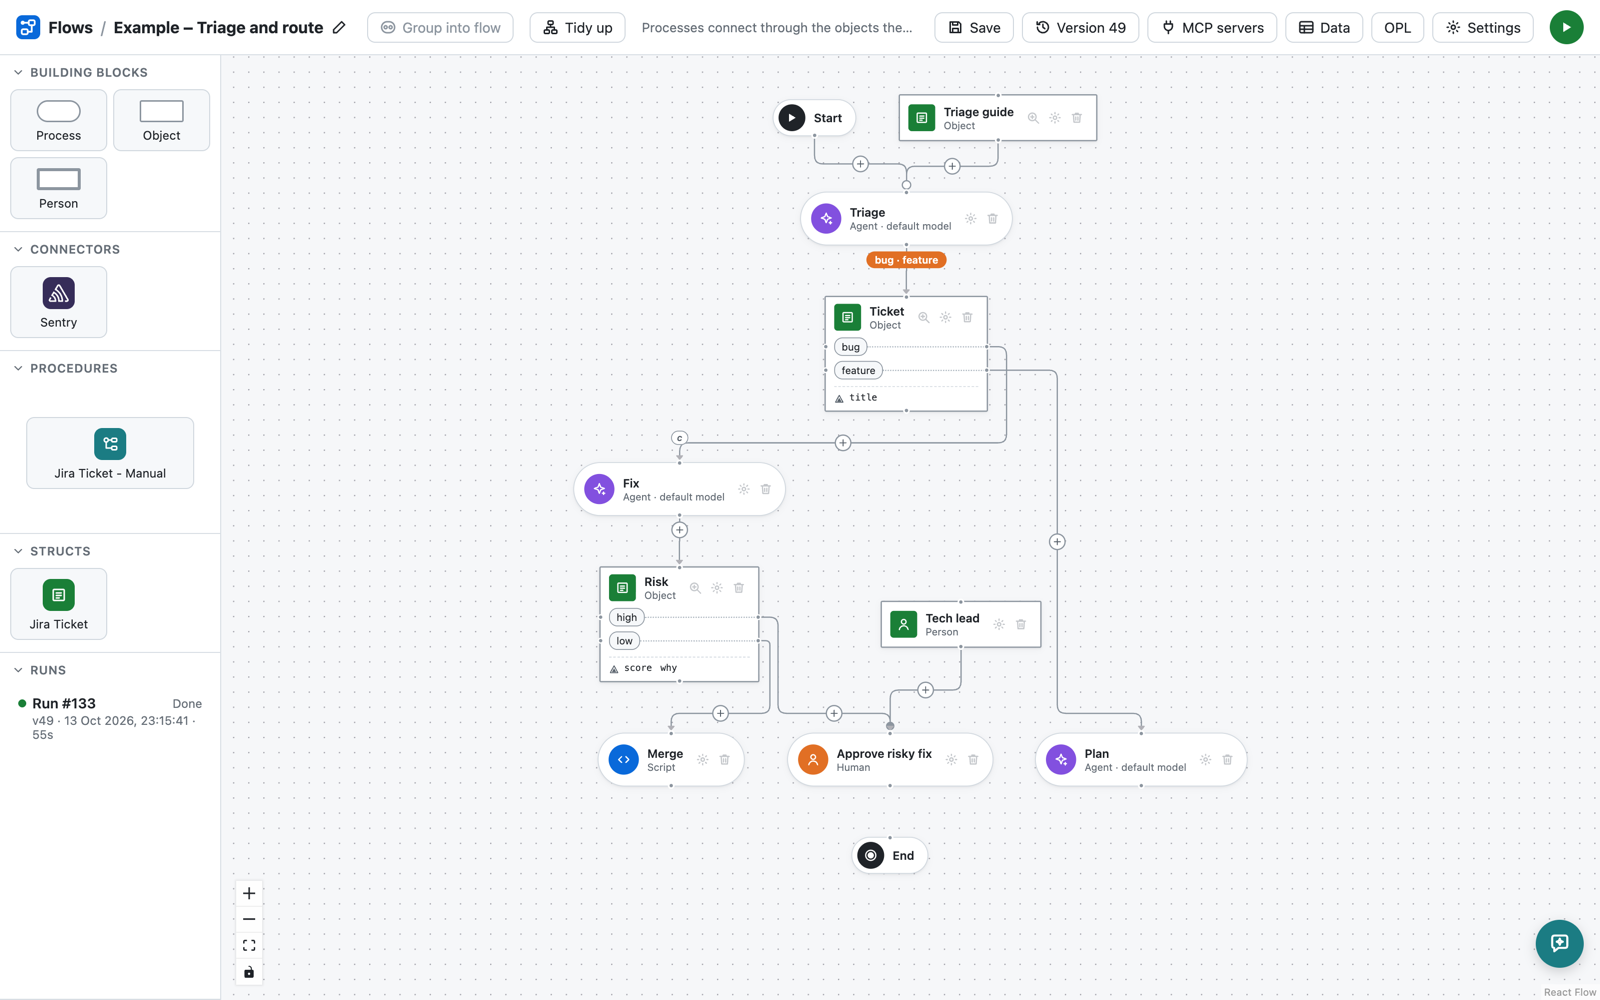
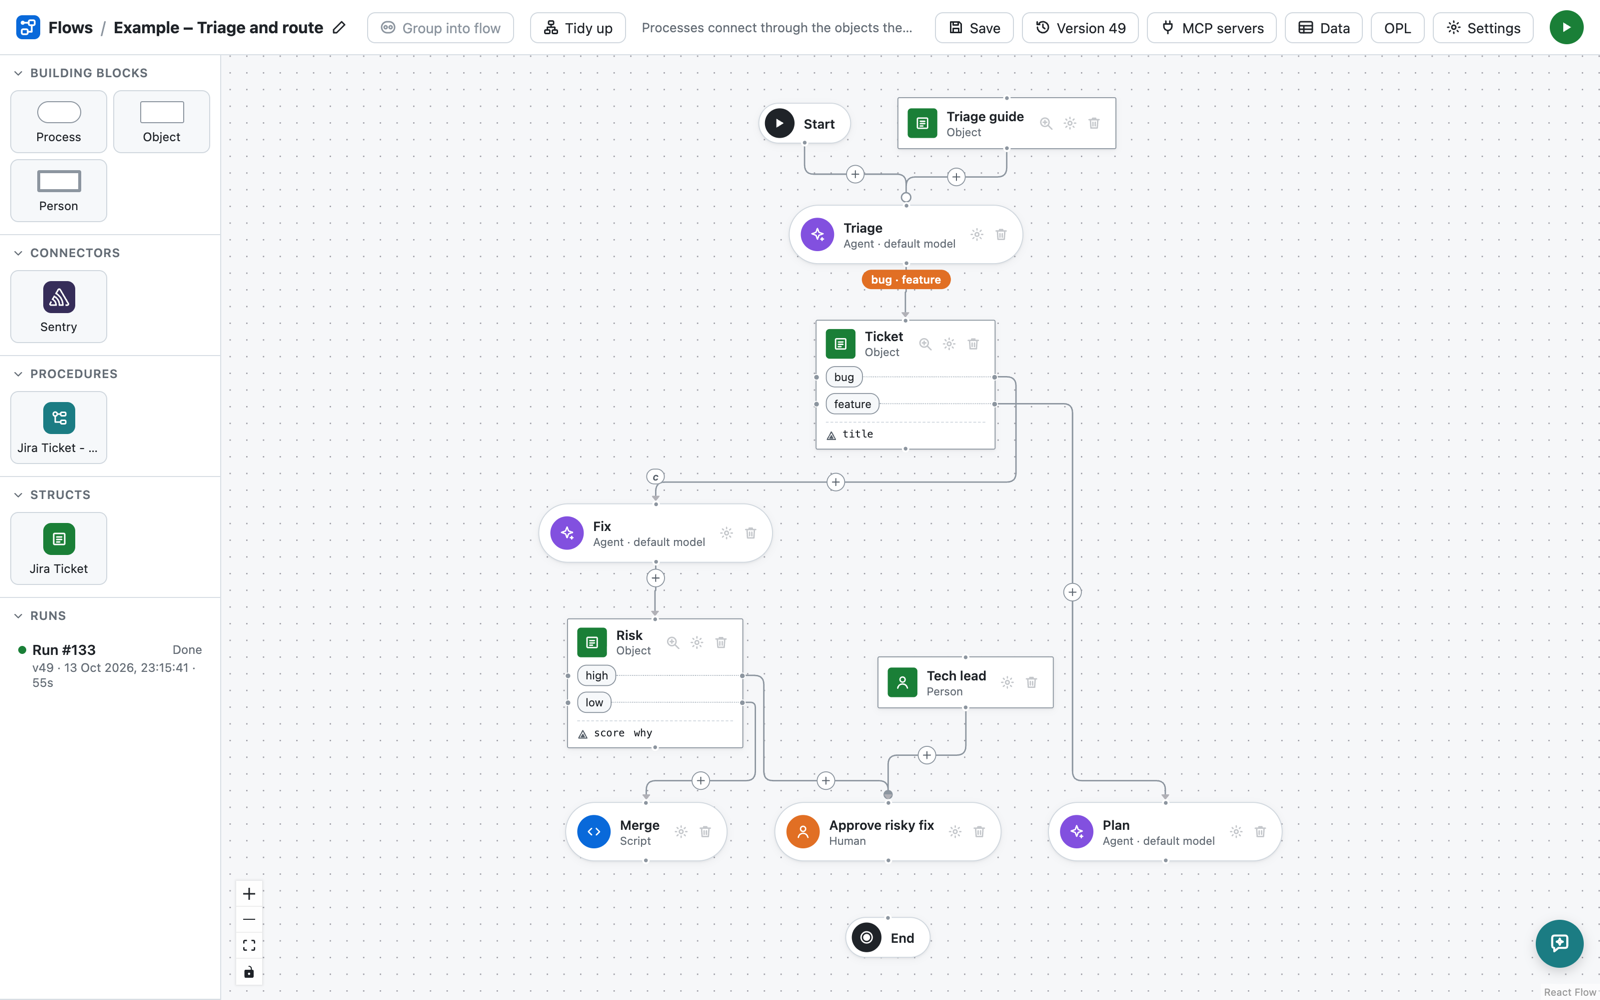
Center the README's screenshots on their flows and leave OPL out of it

diff --git a/README.md b/README.md
@@ -27,27 +27,6 @@ for it to run at all. That is what drives a flow: processes connect through
 the objects they generate, not through arrows drawn from one step to the
 next.
 
-Every board can also be read as **OPL**, OPM's language of plain sentences,
-one fact per sentence. Spoletta writes it from the diagram, shows it beside
-the board and can give it to agents, so they know the flow they work in.
-The board above reads:
-
-```
-"Ticket" can be "bug" or "feature".
-"Risk" is "high" when score >= 7.
-"Tech lead" is a person.
-"Triage" is an agent process, which an AI agent carries out.
-"Triage" requires "Triage guide", which it doesn't change.
-"Triage" yields "Ticket" as "bug" or "feature", deciding which.
-"Fix" occurs if "Ticket" is "bug", and is skipped otherwise.
-"Fix" yields "Risk".
-"Risk" entering "low" triggers "Merge".
-"Risk" entering "high" triggers "Approve risky fix".
-"Tech lead" handles "Approve risky fix".
-"Ticket" entering "feature" triggers "Plan".
-The flow starts with "Triage".
-```
-
 ## What a flow is made of
 
 | Process | Carried out by |
